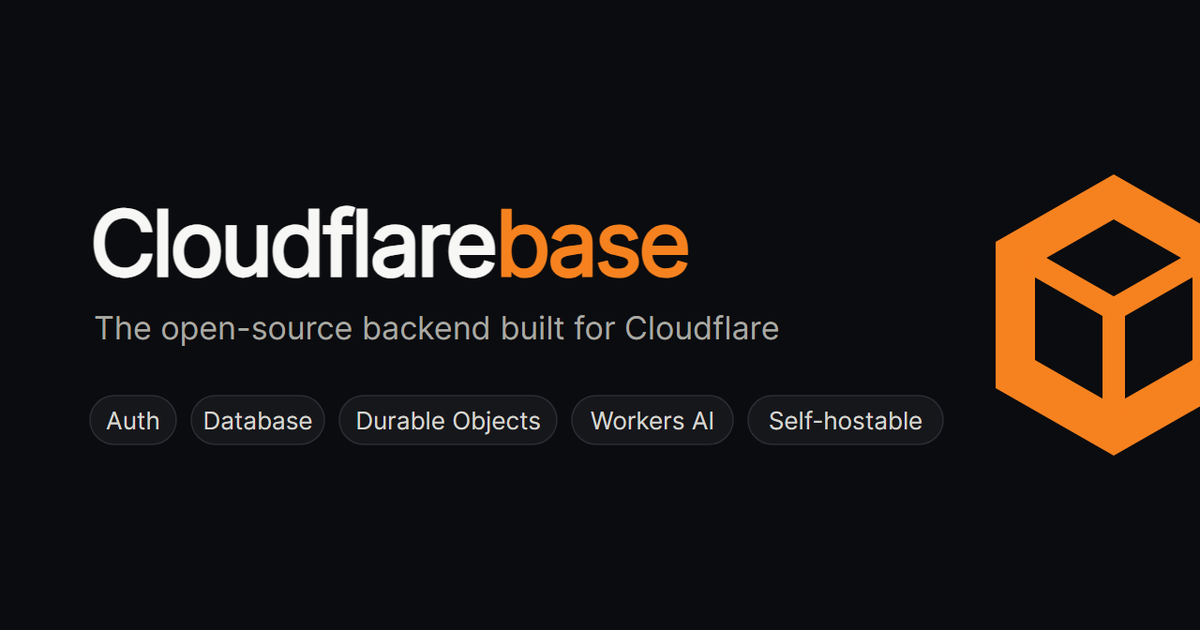
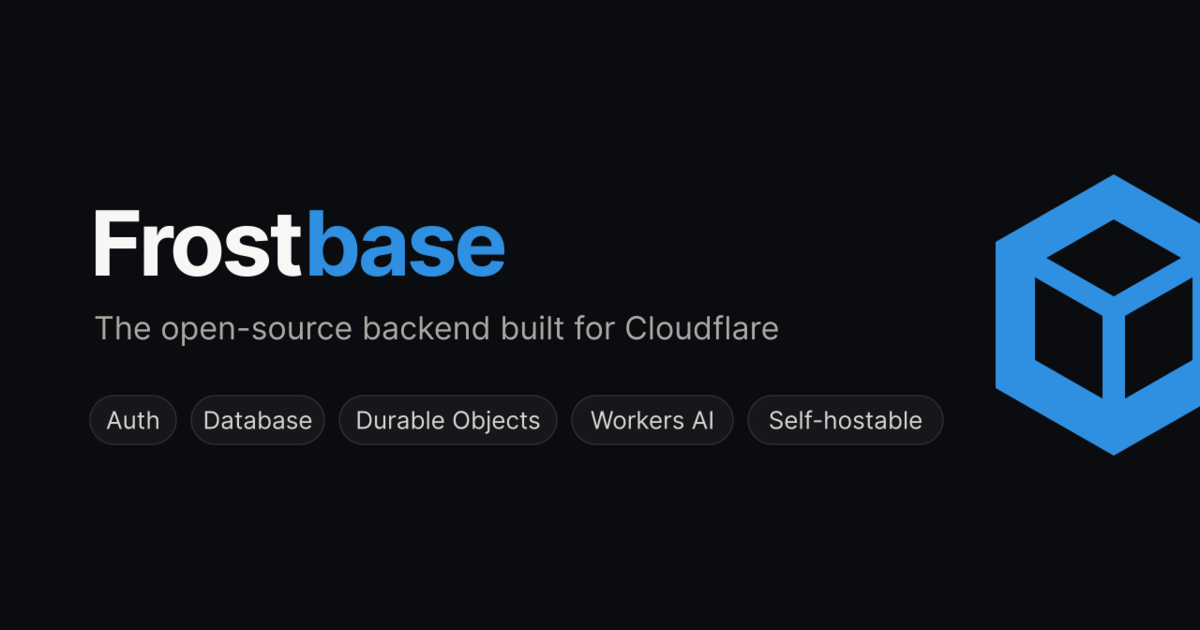
fix(cloudflarebase): drop the hosting agent and follow the rename
Upstream removed agents/hosting (c99fbe4), so the pack failed on its
install dir. The console no longer binds it, so the entry installs four
Workers and loses the note about hosting. Upstream also renamed the
project to Frostbase and moved to frostbase-dev/frostbase: the name,
homepage, repo, author, icon and cover follow; the slug stays. The
rebuild version goes now that source has moved.

diff --git a/apps/cloudflarebase/MEDIA.md b/apps/cloudflarebase/MEDIA.md
@@ -1,10 +1,10 @@
-# Media for Cloudflarebase
+# Media for Frostbase
 
-Upstream: [`cloudflarebase/cloudflarebase`](https://github.com/cloudflarebase/cloudflarebase) at commit [`adfd1b3007896b172f028c03dd0e442f0f8907b1`](https://github.com/cloudflarebase/cloudflarebase/tree/adfd1b3007896b172f028c03dd0e442f0f8907b1), licensed [Apache-2.0](https://github.com/cloudflarebase/cloudflarebase/blob/adfd1b3007896b172f028c03dd0e442f0f8907b1/LICENSE).
+Upstream: [`frostbase-dev/frostbase`](https://github.com/frostbase-dev/frostbase) at commit [`2ed6e45cedb3d3c38a1b5c3ce05ca1827fe68f2c`](https://github.com/frostbase-dev/frostbase/tree/2ed6e45cedb3d3c38a1b5c3ce05ca1827fe68f2c), licensed [Apache-2.0](https://github.com/frostbase-dev/frostbase/blob/2ed6e45cedb3d3c38a1b5c3ce05ca1827fe68f2c/LICENSE).
 
-- `icon.svg`: [`static/brand/mark.svg`](https://github.com/cloudflarebase/cloudflarebase/blob/adfd1b3007896b172f028c03dd0e442f0f8907b1/static/brand/mark.svg), the project's mark, also its favicon. Unchanged.
-- `cover.png`: [`static/brand/social-preview.png`](https://github.com/cloudflarebase/cloudflarebase/blob/adfd1b3007896b172f028c03dd0e442f0f8907b1/static/brand/social-preview.png), the repository's social preview. Scaled from 1280x640 to 1200x600 and padded to 1200x630 with its own background colour (#0b0c0f).
+- `icon.svg`: [`static/brand/mark.svg`](https://github.com/frostbase-dev/frostbase/blob/2ed6e45cedb3d3c38a1b5c3ce05ca1827fe68f2c/static/brand/mark.svg), the project's mark, also its favicon. Unchanged.
+- `cover.png`: [`static/brand/social-preview.png`](https://github.com/frostbase-dev/frostbase/blob/2ed6e45cedb3d3c38a1b5c3ce05ca1827fe68f2c/static/brand/social-preview.png), the repository's social preview. Scaled from 1280x640 to 1200x600 and padded to 1200x630 with its own background colour (#0b0c0f).
 
 No screenshots: the README shows only the header banner, which repeats the cover.
 
-Left out: [`static/brand/github-header.png`](https://github.com/cloudflarebase/cloudflarebase/blob/adfd1b3007896b172f028c03dd0e442f0f8907b1/static/brand/github-header.png) is another brand banner, not a view of the app. The README badges are not app media.
+Left out: [`static/brand/github-header.png`](https://github.com/frostbase-dev/frostbase/blob/2ed6e45cedb3d3c38a1b5c3ce05ca1827fe68f2c/static/brand/github-header.png) is another brand banner, not a view of the app. The README badges are not app media.
